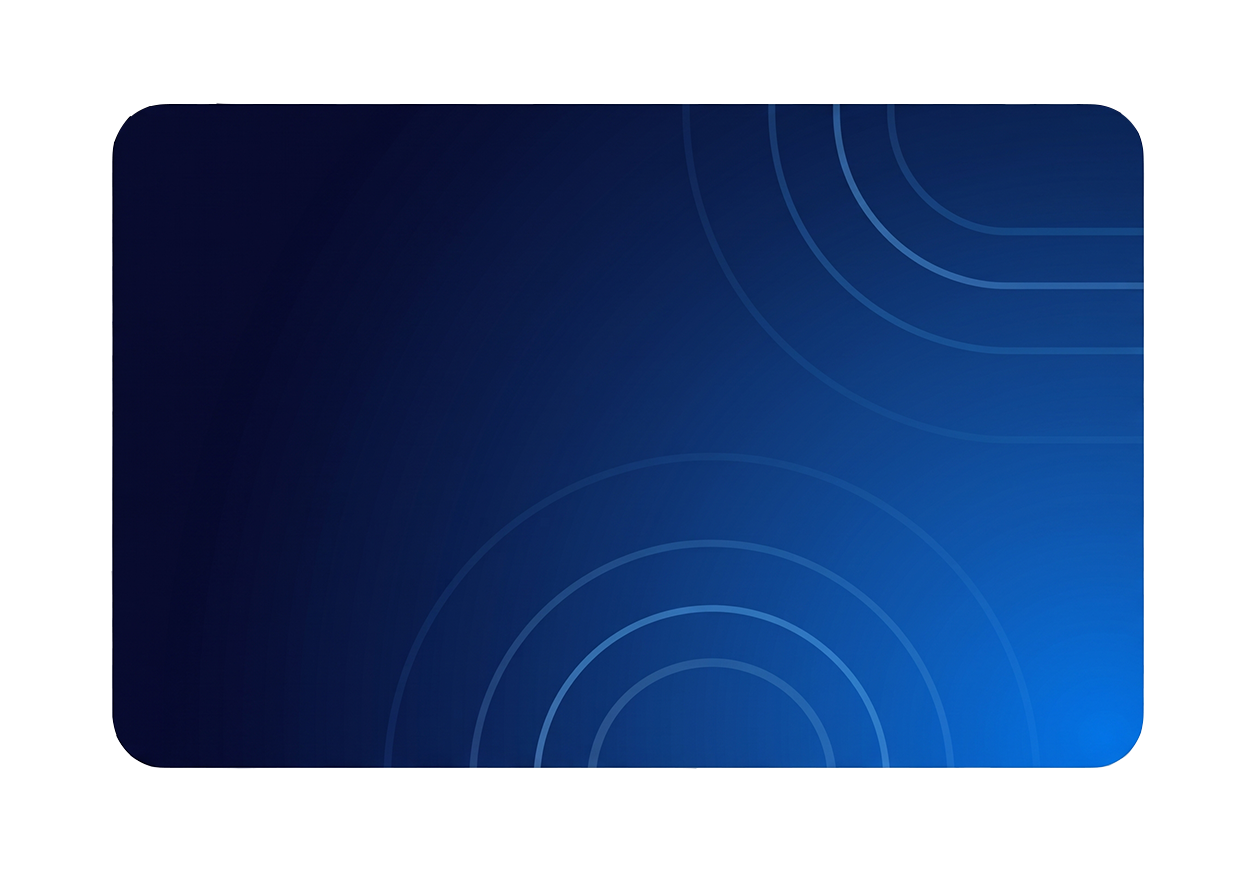
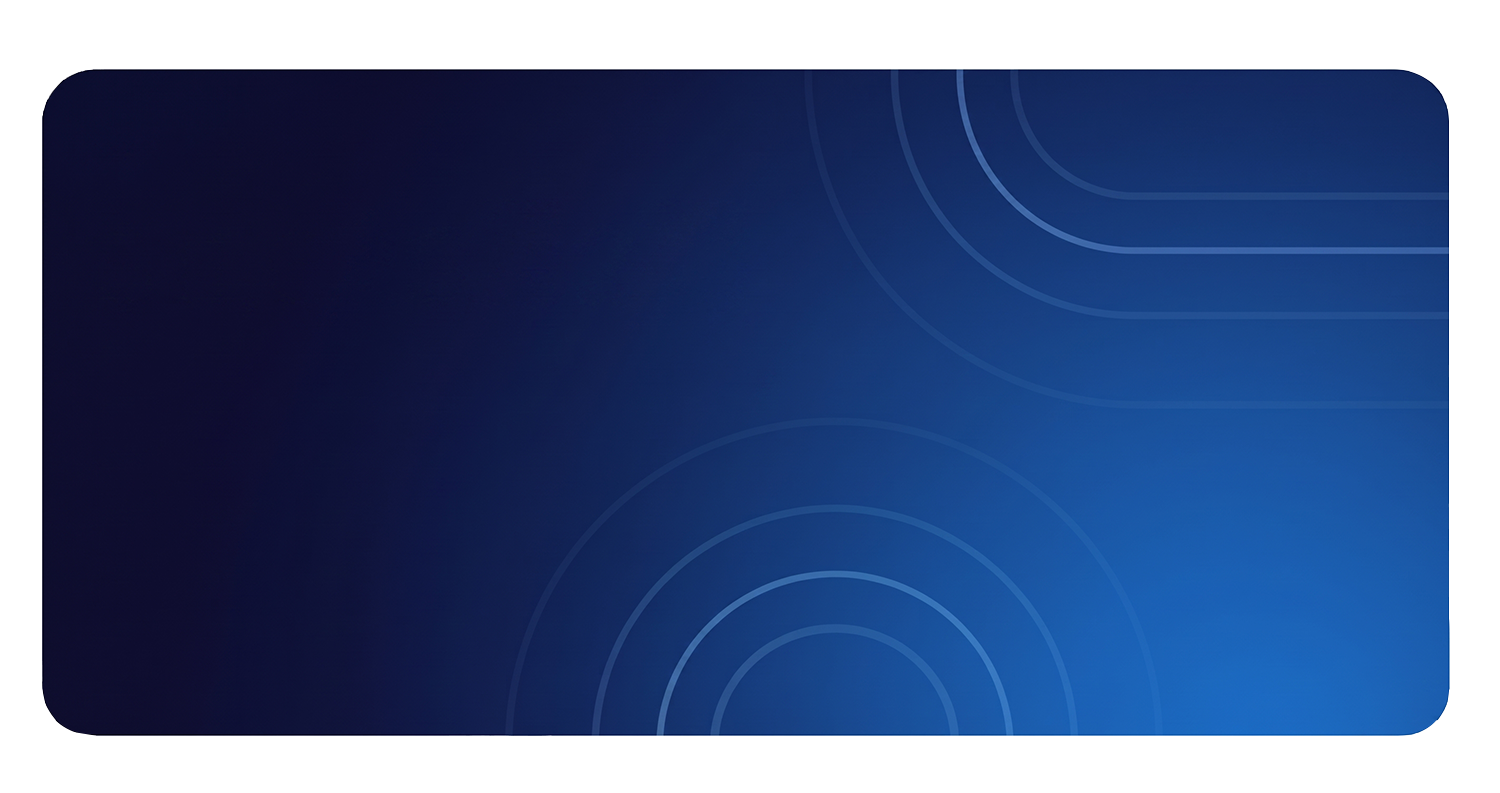
align finance 2x2 cards to hero card height

diff --git a/ccms/src/pages/donations/DonationsPage.tsx b/ccms/src/pages/donations/DonationsPage.tsx
@@ -745,16 +745,16 @@ export function DonationsPage() {
         display: isMobile ? 'flex' : 'grid',
         flexDirection: isMobile ? 'column' : undefined,
         gridTemplateColumns: isMobile ? undefined : '1.35fr 1fr 1fr',
-        gridTemplateRows: isMobile ? undefined : 'auto auto',
+        gridTemplateRows: isMobile ? undefined : '1fr 1fr',
         gap: 12, marginBottom: 24,
       }}>
 
-        {/* HERO — Total Income. PNG shown at natural aspect ratio; the two card
-            rows on the right auto-size to match this height. */}
+        {/* HERO — Total Income. The PNG sets the block height; the two rows of
+            cards on the right split that height so their edges align with it. */}
         <div style={{
           gridColumn: isMobile ? undefined : '1',
           gridRow: isMobile ? undefined : '1 / span 2',
-          position: 'relative', width: '100%', alignSelf: 'start',
+          position: 'relative', width: '100%',
         }}>
           <img
             src="/kpi-card-bg.png"
@@ -807,8 +807,8 @@ export function DonationsPage() {
         {/* CARD 1 — Net Cash Flow */}
         <div style={{
           background: 'var(--dm-bg-card)', border: '0.5px solid var(--dm-border)',
-          borderRadius: 16, padding: '18px 20px',
-          display: 'flex', flexDirection: 'column', justifyContent: 'space-between', minHeight: 142, height: '100%', boxSizing: 'border-box',
+          borderRadius: 16, padding: '15px 18px',
+          display: 'flex', flexDirection: 'column', justifyContent: 'space-between', height: '100%', boxSizing: 'border-box', overflow: 'hidden',
         }}>
           <div style={{ display: 'flex', alignItems: 'flex-start', justifyContent: 'space-between' }}>
             <span style={{ fontFamily: "'IBM Plex Sans', system-ui, sans-serif", fontSize: 11, letterSpacing: '0.09em', textTransform: 'uppercase', color: 'var(--dm-text-secondary)', fontWeight: 500 }}>
@@ -832,7 +832,7 @@ export function DonationsPage() {
           <div>
             <div style={{
               fontFamily: "'Plus Jakarta Sans', system-ui, sans-serif",
-              fontWeight: 700, fontSize: 26, letterSpacing: '-0.02em', lineHeight: 1.1,
+              fontWeight: 700, fontSize: 23, letterSpacing: '-0.02em', lineHeight: 1.1,
               fontVariantNumeric: 'tabular-nums',
               color: periodIsSurplus ? 'var(--dm-text-ink)' : '#DC2626',
             }}>
@@ -847,8 +847,8 @@ export function DonationsPage() {
         {/* CARD 2 — Offering */}
         <div style={{
           background: 'var(--dm-bg-card)', border: '0.5px solid var(--dm-border)',
-          borderRadius: 16, padding: '18px 20px',
-          display: 'flex', flexDirection: 'column', justifyContent: 'space-between', minHeight: 142, height: '100%', boxSizing: 'border-box',
+          borderRadius: 16, padding: '15px 18px',
+          display: 'flex', flexDirection: 'column', justifyContent: 'space-between', height: '100%', boxSizing: 'border-box', overflow: 'hidden',
         }}>
           <div style={{ display: 'flex', alignItems: 'flex-start', justifyContent: 'space-between' }}>
             <span style={{ fontFamily: "'IBM Plex Sans', system-ui, sans-serif", fontSize: 11, letterSpacing: '0.09em', textTransform: 'uppercase', color: 'var(--dm-text-secondary)', fontWeight: 500 }}>
@@ -863,7 +863,7 @@ export function DonationsPage() {
           <div>
             <div style={{
               fontFamily: "'Plus Jakarta Sans', system-ui, sans-serif",
-              fontWeight: 700, fontSize: 26, letterSpacing: '-0.02em', color: 'var(--dm-text-ink)', lineHeight: 1.1,
+              fontWeight: 700, fontSize: 23, letterSpacing: '-0.02em', color: 'var(--dm-text-ink)', lineHeight: 1.1,
               fontVariantNumeric: 'tabular-nums',
             }}>
               {loading ? '—' : formatAmount(offeringTotal)}
@@ -877,8 +877,8 @@ export function DonationsPage() {
         {/* CARD 3 — 2nd highest income category */}
         <div style={{
           background: 'var(--dm-bg-card)', border: '0.5px solid var(--dm-border)',
-          borderRadius: 16, padding: '18px 20px',
-          display: 'flex', flexDirection: 'column', justifyContent: 'space-between', minHeight: 142, height: '100%', boxSizing: 'border-box',
+          borderRadius: 16, padding: '15px 18px',
+          display: 'flex', flexDirection: 'column', justifyContent: 'space-between', height: '100%', boxSizing: 'border-box', overflow: 'hidden',
         }}>
           <div style={{ display: 'flex', alignItems: 'flex-start', justifyContent: 'space-between' }}>
             <span style={{ fontFamily: "'IBM Plex Sans', system-ui, sans-serif", fontSize: 11, letterSpacing: '0.09em', textTransform: 'uppercase', color: 'var(--dm-text-secondary)', fontWeight: 500 }}>
@@ -891,7 +891,7 @@ export function DonationsPage() {
           <div>
             <div style={{
               fontFamily: "'Plus Jakarta Sans', system-ui, sans-serif",
-              fontWeight: 700, fontSize: 26, letterSpacing: '-0.02em', color: 'var(--dm-text-ink)', lineHeight: 1.1,
+              fontWeight: 700, fontSize: 23, letterSpacing: '-0.02em', color: 'var(--dm-text-ink)', lineHeight: 1.1,
               fontVariantNumeric: 'tabular-nums',
             }}>
               {loading ? '—' : secondHighest ? formatAmount(secondHighest.total) : '₵0.00'}
@@ -905,8 +905,8 @@ export function DonationsPage() {
         {/* CARD 4 — 3rd highest income category */}
         <div style={{
           background: 'var(--dm-bg-card)', border: '0.5px solid var(--dm-border)',
-          borderRadius: 16, padding: '18px 20px',
-          display: 'flex', flexDirection: 'column', justifyContent: 'space-between', minHeight: 142, height: '100%', boxSizing: 'border-box',
+          borderRadius: 16, padding: '15px 18px',
+          display: 'flex', flexDirection: 'column', justifyContent: 'space-between', height: '100%', boxSizing: 'border-box', overflow: 'hidden',
         }}>
           <div style={{ display: 'flex', alignItems: 'flex-start', justifyContent: 'space-between' }}>
             <span style={{ fontFamily: "'IBM Plex Sans', system-ui, sans-serif", fontSize: 11, letterSpacing: '0.09em', textTransform: 'uppercase', color: 'var(--dm-text-secondary)', fontWeight: 500 }}>
@@ -920,7 +920,7 @@ export function DonationsPage() {
           <div>
             <div style={{
               fontFamily: "'Plus Jakarta Sans', system-ui, sans-serif",
-              fontWeight: 700, fontSize: 26, letterSpacing: '-0.02em', color: 'var(--dm-text-ink)', lineHeight: 1.1,
+              fontWeight: 700, fontSize: 23, letterSpacing: '-0.02em', color: 'var(--dm-text-ink)', lineHeight: 1.1,
               fontVariantNumeric: 'tabular-nums',
             }}>
               {loading ? '—' : thirdHighest ? formatAmount(thirdHighest.total) : '₵0.00'}
